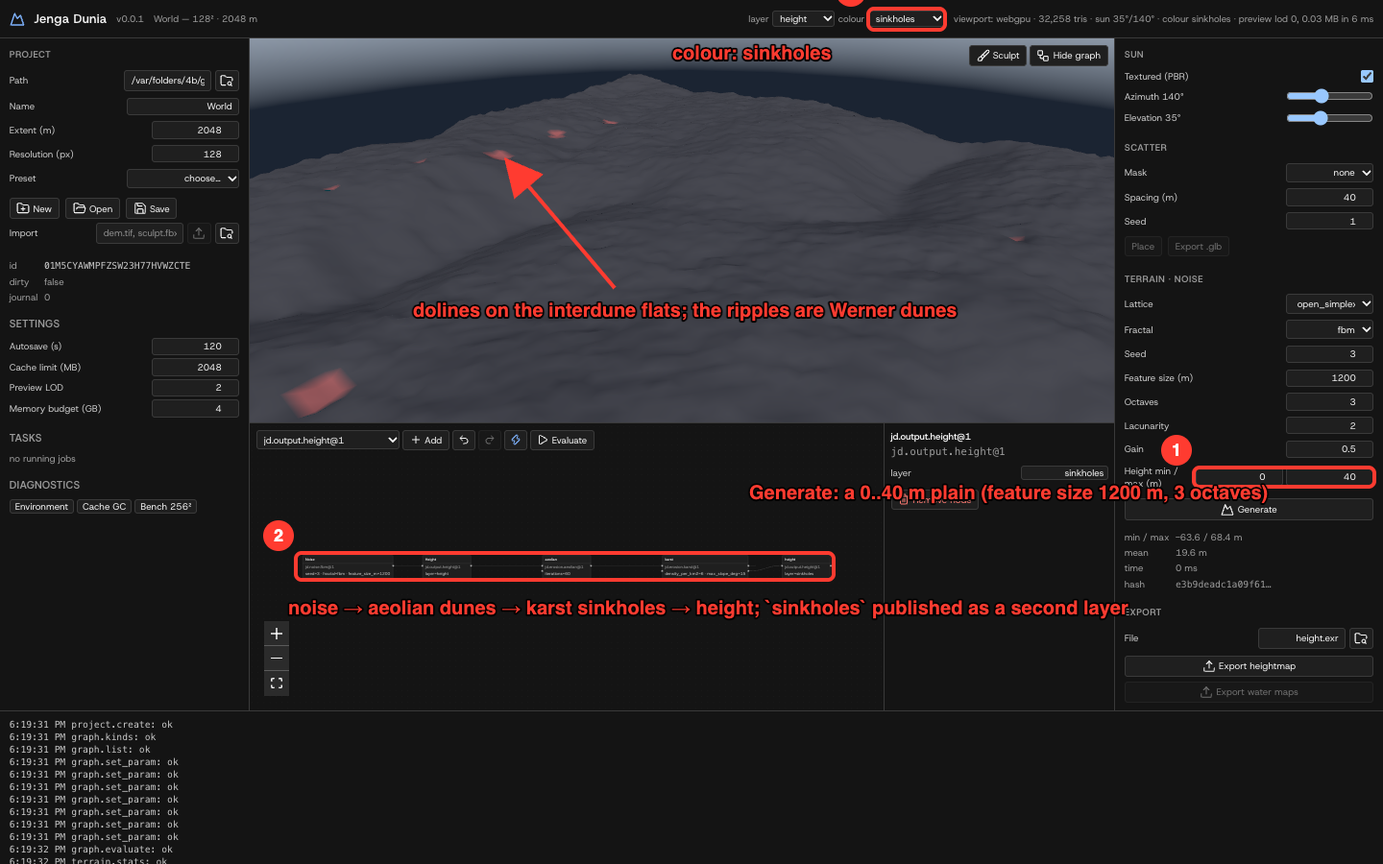
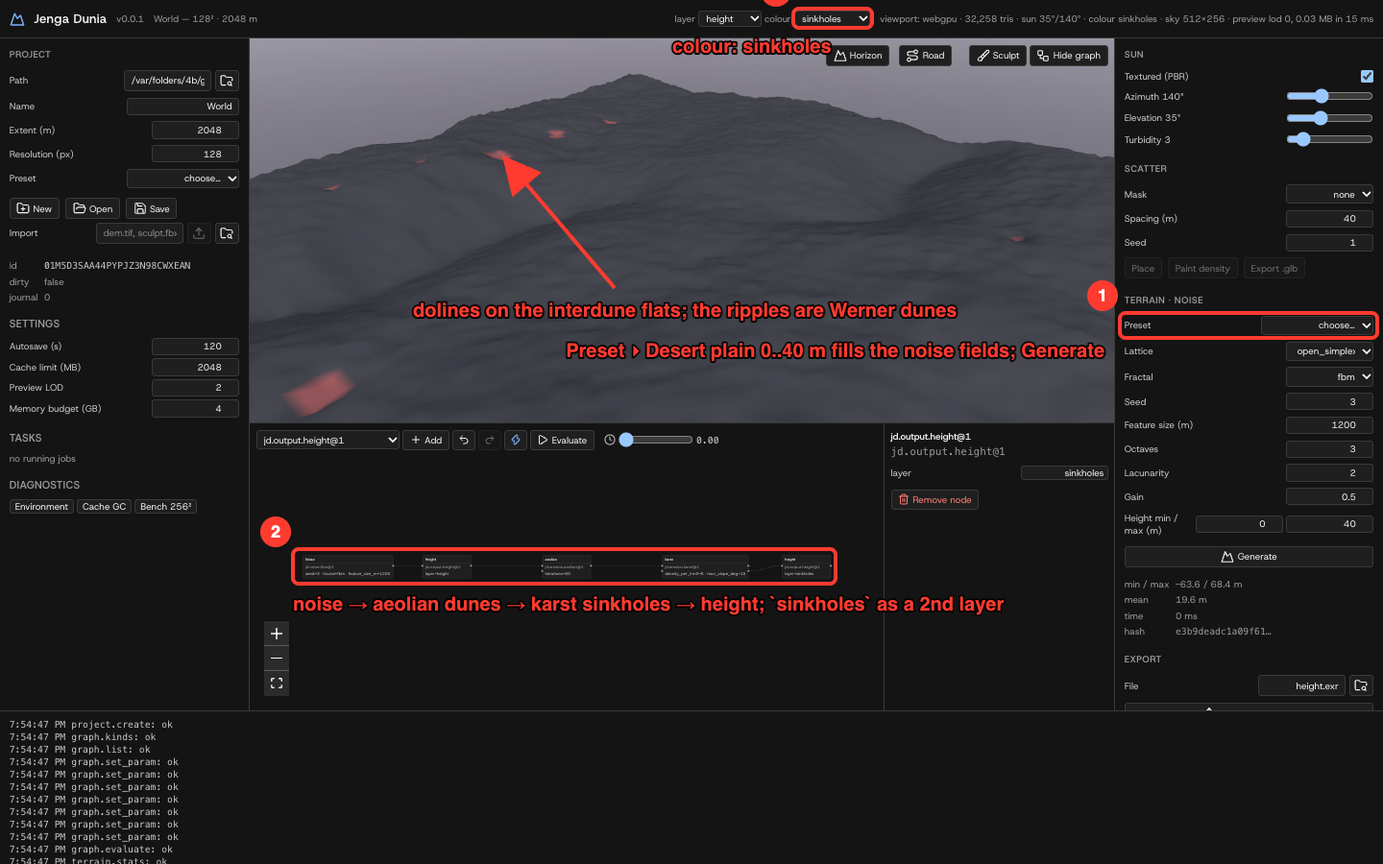
feat(biome): `mask` input and band on jd.biome.classify@1 (salt crusts); terrain presets in the Generate panel
- jd.biome.classify@1: optional `mask` input + per-rule `mask: [min, max)` band with the slope/wetness semantics (unwired → never matches). CLI on a 256² desert plain with fill.lakes → mask: salt crust 20.4 % of the plain at playa depth ≥ 0.5 m, 0 % unwired; cli-desert-salt.png; quickstart "Desert materials" extended. Schemas, ops.gen.ts regenerated; biomes e2e expects the new column.
- Desktop: Terrain · Noise **Preset** select (Mountains 0..500 m, Ridged alpine 0..1200 m, Rolling hills 0..150 m, Desert plain 0..40 m) patches the noise fields; desert.spec.ts starts from the preset; desktop-desert.png re-annotated from a saved .annot.json.

diff --git a/apps/desktop/src/App.tsx b/apps/desktop/src/App.tsx
@@ -4,7 +4,7 @@ import { Brush, FolderOpen, FolderPlus, FolderSearch, Mountain, Route, Save, Upl
 import { useCallback, useEffect, useRef, useState } from "react";
 import GraphPanel from "./graph/GraphPanel";
 import TerrainView, { type ViewportInfo } from "./viewport/TerrainView";
-import { useStore } from "./state";
+import { type NoiseSettings, useStore } from "./state";
 import type { FractalKind, HeightmapFormat, NoiseKind } from "./lib/ops.gen";
 
 function Field({ label, children }: { label: string; children: React.ReactNode }) {
@@ -27,6 +27,14 @@ export const PRESETS: { label: string; resolution: number; extent: number }[] = 
   { label: "Unity / Unreal 2049² · 8 km", resolution: 2049, extent: 8192 },
   { label: "Unreal 4033² · 16 km", resolution: 4033, extent: 16128 },
   { label: "Unity 4097² · 16 km", resolution: 4097, extent: 16384 },
+];
+
+/** Terrain presets: patches on the noise settings (seed and lattice stay as set). */
+export const NOISE_PRESETS: { label: string; patch: Partial<NoiseSettings> }[] = [
+  { label: "Mountains 0..500 m", patch: { fractal: "fbm", feature_size_m: 1024, octaves: 6, gain: 0.5, height_range_m: [0, 500] } },
+  { label: "Ridged alpine 0..1200 m", patch: { fractal: "ridged", feature_size_m: 1400, octaves: 7, gain: 0.5, height_range_m: [0, 1200] } },
+  { label: "Rolling hills 0..150 m", patch: { fractal: "fbm", feature_size_m: 800, octaves: 5, gain: 0.45, height_range_m: [0, 150] } },
+  { label: "Desert plain 0..40 m", patch: { fractal: "fbm", feature_size_m: 1200, octaves: 3, gain: 0.5, height_range_m: [0, 40] } },
 ];
 
 export function formatFor(path: string): HeightmapFormat {
@@ -488,6 +496,23 @@ export default function App() {
             <span className="text-xs text-jd-fg-2" data-testid="scatter-count">{s.scatter.points ? `${s.scatter.points.length.toLocaleString()} instances` : ""}</span>
           </div>
           <h2 className="mt-4 mb-2 text-xs font-semibold uppercase tracking-wider text-jd-fg-2">Terrain · Noise</h2>
+          <Field label="Preset">
+            <select
+              className={`${inputCls} w-36`}
+              value=""
+              onChange={(e) => {
+                const p = NOISE_PRESETS.find((x) => x.label === e.target.value);
+                if (p) s.setNoise(p.patch);
+              }}
+              title="Fills the noise fields below; a desert plain is the start for dunes (jd.erosion.aeolian@1) and sinkholes (jd.erosion.karst@1)"
+              data-testid="noise-preset"
+            >
+              <option value="">choose…</option>
+              {NOISE_PRESETS.map((p) => (
+                <option key={p.label}>{p.label}</option>
+              ))}
+            </select>
+          </Field>
           <Field label="Lattice">
             <select className={inputCls} value={s.noise.kind} onChange={(e) => s.setNoise({ kind: e.target.value as NoiseKind })}>
               {["open_simplex2", "open_simplex2s", "perlin", "value", "value_cubic", "cellular"].map((k) => (

diff --git a/apps/desktop/e2e/desert.spec.ts b/apps/desktop/e2e/desert.spec.ts
@@ -30,11 +30,10 @@ test.describe("desert landscapes against the real core", () => {
     await page.getByTestId("new-project").click();
     await expect(page.locator("header")).toContainText("World — 128²");
 
-    // A desert plain: broad features, few octaves, 0..40 m of relief.
-    await page.getByLabel("Feature size (m)").fill("1200");
-    await page.getByLabel("Octaves").fill("3");
-    const range = page.locator("label", { hasText: "Height min / max (m)" }).locator("input");
-    await range.nth(1).fill("40");
+    // A desert plain: the preset sets broad features, few octaves, 0..40 m of relief.
+    await page.getByTestId("noise-preset").selectOption("Desert plain 0..40 m");
+    await expect(page.getByLabel("Feature size (m)")).toHaveValue("1200");
+    await expect(page.getByLabel("Octaves")).toHaveValue("3");
     await page.getByTestId("seed").fill("3");
     await page.getByTestId("generate").click();
     await expect(page.getByTestId("layer-stats")).toBeVisible();

diff --git a/apps/desktop/e2e/biomes.spec.ts b/apps/desktop/e2e/biomes.spec.ts
@@ -60,7 +60,7 @@ test.describe("biome rules editor against the real core", () => {
       .map((l) => JSON.parse(l) as { op: string; params: { key?: string; value?: unknown } });
     const sets = journal.filter((e) => e.op === "graph.set_param" && e.params.key === "rules");
     const last = sets[sets.length - 1]!.params.value as { name: string; slope: number[] | null; height_m: number[] | null }[];
-    expect(last).toEqual([{ name: "scree", height_m: null, slope: [0.6, 2], wetness: null }]);
+    expect(last).toEqual([{ name: "scree", height_m: null, slope: [0.6, 2], wetness: null, mask: null }]);
 
     // Snow cover: a climate node fed from the noise, published as a second output and used to
     // colour the terrain — a 0..1 mask like any other. The unwired classify node would make the

diff --git a/apps/desktop/src/lib/ops.gen.ts b/apps/desktop/src/lib/ops.gen.ts
@@ -1263,6 +1263,8 @@ export type BiomeRule = {
   "slope"?: [number, number] | null;
   /** Wetness band in 0..1 (the `jd.hydrology.wetness@1` index) [min, max). */
   "wetness"?: [number, number] | null;
+  /** Band on the optional `mask` input [min, max): any field — `lakes` from `jd.hydrology.fill@1` for salt crusts on playa floors, a painted mask, a corridor. */
+  "mask"?: [number, number] | null;
 };
 
 export type NodeParams_jd_biome_classify_1 = {

diff --git a/crates/jd-graph/src/nodes.rs b/crates/jd-graph/src/nodes.rs
@@ -286,6 +286,9 @@ struct BiomeRule {
     /// Wetness band in 0..1 (the `jd.hydrology.wetness@1` index) [min, max).
     #[serde(default)]
     wetness: Option<[f32; 2]>,
+    /// Band on the optional `mask` input [min, max): any field — `lakes` from `jd.hydrology.fill@1` for salt crusts on playa floors, a painted mask, a corridor.
+    #[serde(default)]
+    mask: Option<[f32; 2]>,
 }
 
 #[derive(Deserialize, schemars::JsonSchema)]
@@ -304,6 +307,7 @@ fn validate_biome_rules(bp: &BiomeParams) -> JdResult<()> {
             ("height_m", rule.height_m),
             ("slope", rule.slope),
             ("wetness", rule.wetness),
+            ("mask", rule.mask),
         ] {
             if let Some([lo, hi]) = range
                 && (lo >= hi || lo.is_nan() || hi.is_nan())
@@ -328,6 +332,7 @@ fn default_biome_rules() -> Vec<BiomeRule> {
         height_m: h,
         slope: s,
         wetness: None,
+        mask: None,
     };
     vec![
         r("rock", None, Some([0.6, 2.0])),
@@ -833,11 +838,12 @@ pub fn register_all(r: &mut Registry) {
     ).with_memory(24.0));
     r.register(NodeDef::new::<BiomeParams, _>(
         "jd.biome.classify@1",
-        "Classify every cell into a biome by ordered rules on height, slope (0..1) and wetness (0..1); outputs the class id map (1-based rule index, 0 = none)",
+        "Classify every cell into a biome by ordered rules on height, slope (0..1), wetness (0..1) and an optional `mask` field (e.g. `lakes` depth → salt crust); outputs the class id map (1-based rule index, 0 = none)",
         vec![
             port("height", PortType::Heightfield, true),
             port("slope", PortType::Heightfield, false),
             port("wetness", PortType::Heightfield, false),
+            port("mask", PortType::Heightfield, false),
         ],
         vec![port("biome", PortType::Heightfield, false)],
         |_, p, i| {
@@ -847,7 +853,8 @@ pub fn register_all(r: &mut Registry) {
             let h = field(i, "height")?;
             let slope = i.get("slope").map(|v| v.as_field());
             let wet = i.get("wetness").map(|v| v.as_field());
-            for (name, f) in [("slope", slope), ("wetness", wet)] {
+            let mask = i.get("mask").map(|v| v.as_field());
+            for (name, f) in [("slope", slope), ("wetness", wet), ("mask", mask)] {
                 if let Some(f) = f
                     && (f.width(), f.height()) != (h.width(), h.height())
                 {
@@ -865,12 +872,12 @@ pub fn register_all(r: &mut Registry) {
                         (Some(r), Some(f)) => within(f.get(x, y), r),
                         (Some(_), None) => false,
                     };
-                    let ok_w = match (rule.wetness, wet) {
+                    let band = |want: Option<[f32; 2]>, f: Option<&Arc<Heightfield>>| match (want, f) {
                         (None, _) => true,
                         (Some(r), Some(f)) => within(f.get(x, y), r),
                         (Some(_), None) => false,
                     };
-                    if ok_h && ok_s && ok_w {
+                    if ok_h && ok_s && band(rule.wetness, wet) && band(rule.mask, mask) {
                         return (k + 1) as f32;
                     }
                 }
@@ -1271,6 +1278,22 @@ mod tests {
         for ((c, s), m) in classes.iter().zip(&steep).zip(&mask) {
             assert_eq!(*c == 1.0, *s >= 0.6, "slope {s} → rock? {c}");
             assert_eq!(*m == 1.0, *c == 1.0);
+        }
+        // A `mask` band works like the others: unwired it never matches, wired it takes the cells in band.
+        let salt = add(
+            &mut g,
+            "jd.biome.classify@1",
+            serde_json::json!({ "rules": [{ "name": "salt crust", "mask": [0.6, 2.0] }, { "name": "other" }] }),
+        );
+        connect(&mut g, &noise, "out", &salt, "height");
+        let (outs, _) = ev.evaluate_with(&g, &world(), 0, None).expect("eval");
+        let c = outs[&(salt.clone(), "biome".into())].as_field().to_vec();
+        assert!(c.iter().all(|c| *c == 2.0), "no mask wired → never salt");
+        connect(&mut g, &slope, "out", &salt, "mask");
+        let (outs, _) = ev.evaluate_with(&g, &world(), 0, None).expect("eval");
+        let c = outs[&(salt.clone(), "biome".into())].as_field().to_vec();
+        for (c, s) in c.iter().zip(&steep) {
+            assert_eq!(*c == 1.0, *s >= 0.6, "mask {s} → salt? {c}");
         }
         // Bad ranges are refused.
         let bad = add(

diff --git a/memory/todo.md b/memory/todo.md
@@ -54,7 +54,7 @@ Conventions: `- [ ]` planned · `- [x]` done · `- [~]` in progress (add owner) 
 - [~] Hydrology: D8 flow accumulation ✔ (`jd.analysis.flow@1`), priority-flood fill ✔ (`jd.hydrology.fill@1`, outputs drainable field + `lakes`), rivers ✔ (`jd.hydrology.rivers@1`: fill → D8 accumulation → smoothstep incision, `rivers` mask); TWI ✔ (`jd.hydrology.wetness@1`); D∞ ✔ + MFD ✔ (`method: d8|dinf|mfd` on flow + rivers nodes; wetness d8/dinf/mfd ✔ via `method`); sea level ✔ (`jd.hydrology.sea_level@1`: border-connected `ocean` + `depth`); viewport sea plane ✔ (follows the sea_level node); hydrology-first generation ☐
 - [~] Biomes ✔ (`jd.biome.classify@1` rules → class map, `jd.mask.class@1`, desktop rules table editor ✔) · scatter ✔ (`terrain.scatter` from any 0..1 mask → CSV/JSON instances, deterministic) · engine instance formats: glTF `EXT_mesh_gpu_instancing` ✔ (`terrain.scatter … .glb`, Blender-verified) · desktop Scatter panel + viewport instances ✔ · Unity/Unreal instance formats ☐
 - [~] **VUE study (owner request 2026-10-20)**: research ✔ (`docs/research/vue-features.md`, 2026-10-20: VUE discontinued/free, inventory with REPORTED/VERIFIED tags, ranked unique features: erosion/weather timeline, dynamic painted ecosystems, strata ✔, physical sky + HDRI export, spline toolkit, infinite extension, rock generator) · build order: timeline ✔ (core + desktop) → sky/HDRI ✔ (`sky.bake` Preetham HDRI EXR + preview; viewport dome textured from `sky.preview`, turbidity slider) → painted ecosystem layers ✔ density painting (`clamp` on `jd.sculpt.strokes@1`, Scatter ▸ Paint density, `paint.spec.ts`; multi-layer exclusion ☐, growth over the timeline ☐) → splines ✔ core (`jd.terrain.spline@1`: flatten / cut / raise along a polyline, smoothed grade, corridor mask; Blender-rendered road; desktop Road mode ✔ (`road.spec.ts`: one drag = one spline node) → rock generator ✔ (`terrain.rocks`, `rock` proxy on `terrain.scatter`; validator-clean, Blender-verified) → infinite extension ✔ as a horizon skirt (`terrain.horizon`, desktop Horizon toggle; noise only — the VUE list is done) — original note: read e-on VUE's documentation (ecosystems/population, spectral atmospheres + clouds, procedural terrains and rocks, function graph, EcoSystem painting, planetary/infinite terrains) → `docs/research/vue-features.md` with VERIFIED/REPORTED tags; list what no other terrain package has and plan the ones that fit a terrain tool (candidates: ecosystem rules driven by slope/altitude/moisture with density painting ✔ partly via biome rules + scatter; atmosphere/sky presets for the viewport; rock generators; "infinite" procedural extension; material layering by altitude/slope with roughness variation)
-- [ ] **Desert landscapes (owner request 2026-10-20)**: wind dunes ✔ (`jd.erosion.aeolian@1`, Werner) · sinkholes/karst ✔ (`jd.erosion.karst@1`: seeded dolines on flat/soluble ground, bowl/collapse profiles, `sinkholes` floor mask; underground drainage ☐) · wadis/arroyos ✔ as a recipe (rivers node, threshold 0.4, depth 3 m, dinf; quickstart) · playas/salt flats ✔ as a recipe (fill node: `lakes` depth = evaporite floor, `out` = pan; quickstart) — salt-crust material ☐ · mesas/buttes ✔ (`jd.terrain.strata@1` hardness → `hardness` inputs on thermal, stream power and hydraulic; Blender-rendered mesa demo) · yardangs ✔ (`jd.erosion.yardang@1`: windward abrasion with wind shadow, optional hardness; Blender-rendered demo, west/east facing asymmetry 1.0 → 1.6) · desert pavement/reg + varnish materials ✔ as a biome rule set (quickstart; salt-crust class needs a mask input on `jd.biome.classify@1` ☐) · desert tutorial scene ✔ (`desert.spec.ts`: plain → dunes → sinkholes, `desktop-desert.png` + recording) · acceptance scene ✔ (§20 item 2 runs karst + strata-hardened yardangs + a spline road on the demo world; karst reports PARTIAL when the mountain world has no ground under 20°) · desert preset ☐
+- [ ] **Desert landscapes (owner request 2026-10-20)**: wind dunes ✔ (`jd.erosion.aeolian@1`, Werner) · sinkholes/karst ✔ (`jd.erosion.karst@1`: seeded dolines on flat/soluble ground, bowl/collapse profiles, `sinkholes` floor mask; underground drainage ☐) · wadis/arroyos ✔ as a recipe (rivers node, threshold 0.4, depth 3 m, dinf; quickstart) · playas/salt flats ✔ as a recipe (fill node: `lakes` depth = evaporite floor, `out` = pan; quickstart) — salt-crust material ☐ · mesas/buttes ✔ (`jd.terrain.strata@1` hardness → `hardness` inputs on thermal, stream power and hydraulic; Blender-rendered mesa demo) · yardangs ✔ (`jd.erosion.yardang@1`: windward abrasion with wind shadow, optional hardness; Blender-rendered demo, west/east facing asymmetry 1.0 → 1.6) · desert pavement/reg + varnish materials ✔ as a biome rule set (quickstart) · salt crust ✔ (`mask` input + per-rule `mask` band on `jd.biome.classify@1`; fill.lakes → mask; 20.4 % of the demo plain at ≥ 0.5 m; `cli-desert-salt.png`) · desert tutorial scene ✔ (`desert.spec.ts`: plain → dunes → sinkholes, `desktop-desert.png` + recording) · acceptance scene ✔ (§20 item 2 runs karst + strata-hardened yardangs + a spline road on the demo world; karst reports PARTIAL when the mountain world has no ground under 20°) · desert preset ✔ (Terrain · Noise **Preset** select: Mountains / Ridged alpine / Rolling hills / Desert plain; `desert.spec.ts` starts from it; `desktop-desert.png` re-annotated with a saved `.annot.json`)
 - [x] Core: overlapping evaluations — `Project.revision` bumps on every journaled mutation; an evaluation that started on an older revision publishes nothing and warns `W_STALE_GRAPH` (no lock, no blocking); the desktop also waits for its in-flight preview
 - [~] Weather state, timeline: core ✔ (`graph.time` journaled via `graph.set_time`; `{"keys": [[t, v], …]}` on any parameter, linear/step resolution before the node runs, validated at every key, cached per time) · desktop scrubber + `t:v` keyframe fields ✔ (`timeline.spec.ts`) · frame-sequence export op ☐ · shared wind/weather state across dunes, waves, snow ☐
 - [ ] **Ocean water (user request 2026-10-20)**: (1) water clarity ✔ viewport (`visibility_m` + `tint` on `jd.hydrology.sea_level@1`, Beer–Lambert per channel) + water bakes ✔ (`ocean.bake`: depth 16-bit, colour sRGB, foam, tileable Gerstner wave normal; desktop Export water maps button); (2) seabed classifier ✔ (`jd.biome.seabed@1`: sand / rock / mud / reef by depth, slope, river + shore sediment reach; currents/transport ☐); (3) waves ✔ (`ocean.waves`: JONSWAP fetch-limited growth capped at Pierson–Moskowitz → Hs, Tp, L, breaking depth + 3 Gerstner components; sea node `wind_speed_mps` / `fetch_km` / `wind_azimuth_deg`; the viewport animates the sea plane on the CPU and widens the foam to the surf zone depth < Hs/0.78; baked normal/foam maps ✔ via `ocean.bake` (displacement ☐: engines animate from the components), foam from the coastal `shore` mask ☐, refraction/shadowing ☐); (4) bathymetry ✔ (`jd.ocean.bathymetry@1`: sand/mud cells rise to the local mean over `smooth_m`, capped at `max_fill_m` and `level_m`; rock/reef/land untouched — rock outcrops are the seabed class 2 / `jd.mask.class@1`; transport/sorting/budget ☐)

diff --git a/docs/user/desktop-app.md b/docs/user/desktop-app.md
@@ -48,7 +48,7 @@ Logs: `~/Library/Logs/com.seedexr.jengadunia/jd-app.log` on macOS (`$XDG_DATA_HO
 1. **Path** — type the project directory (created on disk as a `.jdproj` folder), or use the folder button / **File → Open…** for a native dialog.
 2. **Preset** — Unity 1025²/2049²/4097², Unreal 2049²/4033² or plain squares fill resolution and extent.
 3. **New (⌘N)** — or **Open (⌘O)** for an existing project; the header shows `name — resolution² · extent m`.
-4. **Generate (⌘G)** — after choosing lattice, fractal, seed, feature size, octaves, lacunarity, gain and height range.
+4. **Generate (⌘G)** — after choosing lattice, fractal, seed, feature size, octaves, lacunarity, gain and height range, or a **Preset** (Mountains 0..500 m, Ridged alpine 0..1200 m, Rolling hills 0..150 m, Desert plain 0..40 m) that fills those fields.
 5. **Export heightmap (⌘E)** — `.exr`/`.tif`/`.r32` (exact), `.png`/`.r16` (16-bit, warns about quantisation).
 6. **Log** — every operation with warnings and errors (stable code, why, what to do next).
 
@@ -157,7 +157,7 @@ Undo and redo are operations like everything else (`graph.undo` / `graph.redo`, 
 
 ![Inspector with the biome rules table: one row named scree with a slope range, add-row button](images/desktop-biome-rules.png)
 
-*Rules as a table: for parameters that are lists of records (biome rules) the inspector shows a table — **+ row** adds a rule, each cell applies on blur (`min,max` for ranges, empty for "no constraint"), the bin removes a row. Every edit is one journaled `graph.set_param`; a value the core refuses (an inverted range) is reported in the log before anything is journaled and the table keeps the last good value. Recorded brush strokes stay a count — they are data, not something to type. UI-driven test: `apps/desktop/e2e/biomes.spec.ts`.*
+*Rules as a table: for parameters that are lists of records (biome rules) the inspector shows a table — **+ row** adds a rule, each cell applies on blur (`min,max` for ranges, empty for "no constraint"), the bin removes a row. The columns come from the node schema, so the `mask` band (the classify node's free `mask` input: playa depth for a salt crust, a painted mask) appears beside height, slope and wetness. Every edit is one journaled `graph.set_param`; a value the core refuses (an inverted range) is reported in the log before anything is journaled and the table keeps the last good value. Recorded brush strokes stay a count — they are data, not something to type. UI-driven test: `apps/desktop/e2e/biomes.spec.ts`.*
 
 *Sea in the viewport: as soon as the graph contains a `jd.hydrology.sea_level@1` node (1) the viewport draws water at its `level_m` — edit the value (2) and it moves with it; the header's viewport line reports the height (boxed, top right). The surface is shaded by the depth of the terrain under each vertex: a pale foam band within ~1 % of the height range of the shore, translucent turquoise shallows darkening to opaque navy with an e-folding depth of 12 % of the height range, and nothing drawn over land (alpha 0), so the shoreline reads without a custom shader (`buildSeaGeometry`, unit-tested). Water is only drawn while the **height** layer is shown (masks like `ocean` or `rivers` are 0..1 and would hide under it). Same e2e test.*
 
@@ -191,7 +191,7 @@ Undo and redo are operations like everything else (`graph.undo` / `graph.redo`, 
 
 ![Desert project: a 0..40 m plain generated from the panel, an aeolian node and a karst node in the graph, the viewport zoomed onto dune ripples with a red sinkhole floor](images/desktop-desert.png)
 
-*A desert in three nodes: set **Height min / max** to 0..40 m with a large feature size and few octaves and **Generate** a plain (1); add `jd.erosion.aeolian@1` (Werner slabs hop downwind into dunes; 60 steps here) and `jd.erosion.karst@1` (dolines on ground flatter than `max_slope_deg`, 15° between the dunes) and wire noise → dunes → sinkholes → height (2); publish the node's `sinkholes` output as a second layer and colour by it (3) — the red floors are the pits. Strata for mesas, wadis, playas and the rest of the desert family are CLI recipes in the quickstart for now. The UI-driven test `apps/desktop/e2e/desert.spec.ts` builds exactly this and is the source of the capture.*
+*A desert in three nodes: pick **Preset ▸ Desert plain 0..40 m** in the Terrain · Noise panel (it fills feature size 1200 m, 3 octaves, 0..40 m; Mountains, Ridged alpine and Rolling hills are the other presets) and **Generate** a plain (1); add `jd.erosion.aeolian@1` (Werner slabs hop downwind into dunes; 60 steps here) and `jd.erosion.karst@1` (dolines on ground flatter than `max_slope_deg`, 15° between the dunes) and wire noise → dunes → sinkholes → height (2); publish the node's `sinkholes` output as a second layer and colour by it (3) — the red floors are the pits. Strata for mesas, wadis, playas and the rest of the desert family are CLI recipes in the quickstart for now. The UI-driven test `apps/desktop/e2e/desert.spec.ts` builds exactly this and is the source of the capture.*
 
 **Screen recording:** [`videos/desert-dunes-sinkholes.mp4`](videos/desert-dunes-sinkholes.mp4) (31 s, 1440×900) — the desert flow above, recorded from the test with `JD_VIDEO=1`.
 

diff --git a/memory/handover_session.md b/memory/handover_session.md
@@ -264,7 +264,9 @@ Append-only log. Newest entry first. Timestamps are local (Africa/Nairobi, UTC+3
 
 - `10:55:00` **Acceptance §20 extended + instanced-GLB fix**: `scripts/acceptance.mjs` adds the seabed / bathymetry / strata / karst / yardang / spline branch (item 2 desert family, item 1 ocean floor), `ocean.bake` (7), `sky.bake` (5), `terrain.rocks` + rock-proxy scatter (8), validator + Blender import of `rocks.glb`, and a keyed `snow_line_m` timeline check (5) — the timeline mutations must be saved (`op(…, true)`): every CLI call is its own process, so unsaved `set_param`/`set_time` were lost and t = 0/1 came out identical. Root cause of the red `frontend (ubuntu)` on `a0cb739` and `147a30d`: `trees.glb: 2 errors` — the refactored `write_instances_glb` emitted a zero-length NORMAL bufferView + zero-count accessor for the cone proxy; views/accessors are now built conditionally (validator: 0 errors on a cone scatter). Quick run: 13 VERIFIED, 4 PARTIAL (2: karst places nothing on the mountain quick world; 5: weather state), 1 UNVERIFIED. Full run (512²): 14 VERIFIED, 3 PARTIAL, 1 UNVERIFIED → `docs/spec/acceptance-report.md`. E2E: a forced node click can land while the graph re-renders and select nothing (hydrology `layerInput.fill` waited 270 s with the inspector still empty) → `selectNode(node)` in `bridge.ts` clicks until React Flow marks the node `selected`; all forced node clicks in hydrology/desert/timeline use it.
 
-### Open / next (as of 2026-10-21 10:55, head after acceptance commit)
+- `11:30:00` **Salt crust + terrain presets** (desert mandate leftovers): `jd.biome.classify@1` gains an optional `mask` input and a per-rule `mask: Option<[f32;2]>` band (same semantics as `slope`/`wetness`: unwired → the rule never matches; test extended; schemas + ops.gen.ts regenerated). CLI on a 256² desert plain (karst 6/km² → fill → classify, `fill.lakes → mask`): salt crust 23.6 / 20.4 / 17.7 % of the plain at playa depth ≥ 0.05 / 0.5 / 1 m, 0.0 % with the port unwired, ~470 ms per evaluation; `cli-desert-salt.png` is the exported mask. Desktop: `NOISE_PRESETS` (Mountains 0..500, Ridged alpine 0..1200, Rolling hills 0..150, Desert plain 0..40) behind a **Preset** select (`noise-preset`) in Terrain · Noise — a patch on the noise settings, seed and lattice untouched; `desert.spec.ts` starts from the preset and asserts the fields it fills (the 37.4 m mean assertion still holds). `desktop-desert.annot.json` saved beside the image (the earlier desert annotation had no spec on disk).
+
+### Open / next (as of 2026-10-21 11:30, head after salt-crust commit)
 0. **CI**: `a0cb739` + `147a30d` red on `frontend (ubuntu)` only: `trees.glb: 2 errors` from the instance-writer refactor (fixed 10:55, see timeline). Earlier: `ac54bc0` (seabed) red on `frontend (ubuntu)`: hydrology e2e `locator.click` hit the 300 s test timeout; `09044f9` (waves, same spec + the gale step) green; `4b9f4a0` (bathymetry) polling. `4b9f4a0` red the same way: `out3.click()` waited 300 s for "visible, enabled and stable" (the runner is ~10× slower: terrain spec 58 s vs 4 s locally, live previews keep re-rendering the graph). Mitigation in the LOD-chain commit: node-selection clicks in the hydrology spec are `force: true` (wiring clicks already were). If it trips again, pull the run's `error-context.md` artifact.
 1. **CI**: green through `e74faf2` (snow) except `a4f7150` (vitest timing flake, fixed in `f976369`) and `dad6256` (priorities; fixed by `d84eaa9`); `827109f` (aeolian) polling.
 2. **Figma**: connector unavailable this session; plugin OAuth pending on the owner's side → tutorial images stay in `docs/user/images/`; place them in file `fxyeV62hgLoNmG3dU1LX6G` when a connector works.

diff --git a/docs/user/cli-quickstart.md b/docs/user/cli-quickstart.md
@@ -572,7 +572,25 @@ classify 59 ms (256²)   shares: wadi gravel 0.3 %  sand sheet 95.8 %  reg 2.9 %
 
 ![Desert biome class map: a sand-sheet plain with reg rims and varnished rock on the steep sinkhole walls, wadi gravel along the channels](images/cli-desert-biome.png)
 
-The desert surfaces fall out of the same rule engine as the temperate biomes: the wettest cells (the wadi beds, MFD-routed so the index reads as moisture) take gravel first, then slope sorts the rest into sand sheet, reg (the stone pavement that armours gently sloping desert ground) and varnished rock on anything steep — here the sinkhole walls and dune slip faces. Each class is a `jd.mask.class@1` mask for materials and scatter. The playa floor (`fill.lakes > 0`) and the sinkhole floors are masks of their own; the classify node does not take extra masks yet, so a salt-crust class has to be composited downstream — that is the open item.
+The desert surfaces fall out of the same rule engine as the temperate biomes: the wettest cells (the wadi beds, MFD-routed so the index reads as moisture) take gravel first, then slope sorts the rest into sand sheet, reg (the stone pavement that armours gently sloping desert ground) and varnished rock on anything steep — here the sinkhole walls and dune slip faces. Each class is a `jd.mask.class@1` mask for materials and scatter.
+
+**Salt crust on the playa floors.** The classify node also takes a free `mask` input and a `mask` band per rule — any 0..1 field: a painted mask, a corridor, or here the standing-water depth of the fill node, so evaporite floors become a class of their own:
+
+```
+$ jd op graph.set_param --project Salt.jdproj --save --params '{"id":"<classify>","key":"rules","value":[
+    {"name":"salt crust","mask":[0.5,1e9]},
+    {"name":"sand sheet","slope":[0,0.06]},
+    {"name":"reg (desert pavement)","slope":[0.06,0.2]},
+    {"name":"varnished rock","slope":[0.2,1.01]}]}'
+# fill.lakes → classify.mask (fill.out → classify.height, slope.out → classify.slope); jd.mask.class@1 id 1 → `salt`
+Desert plain 256² (2.56 km, karst 6/km², fill): playa depth 0..14.9 m, mean 0.78 m
+salt crust  playa ≥ 0.05 m: 23.6 %   ≥ 0.5 m: 20.4 %   ≥ 1 m: 17.7 % of the plain   (471 ms per evaluation)
+mask port unwired: 0.0 % — a rule with a `mask` band never matches without the input, like `slope` and `wetness`
+```
+
+![Salt-crust mask of the desert plain: broad white pans where the filled hollows stand deeper than half a metre, small discs on the sinkhole floors](images/cli-desert-salt.png)
+
+The pans are large because `fill` levels every closed hollow of a noisy plain, not only the sinkholes; raise the band's lower bound to keep the deep basins only, or feed the `sinkholes` mask of the karst node instead for crusts on the dolines alone.
 
 ### Snow cover
 
